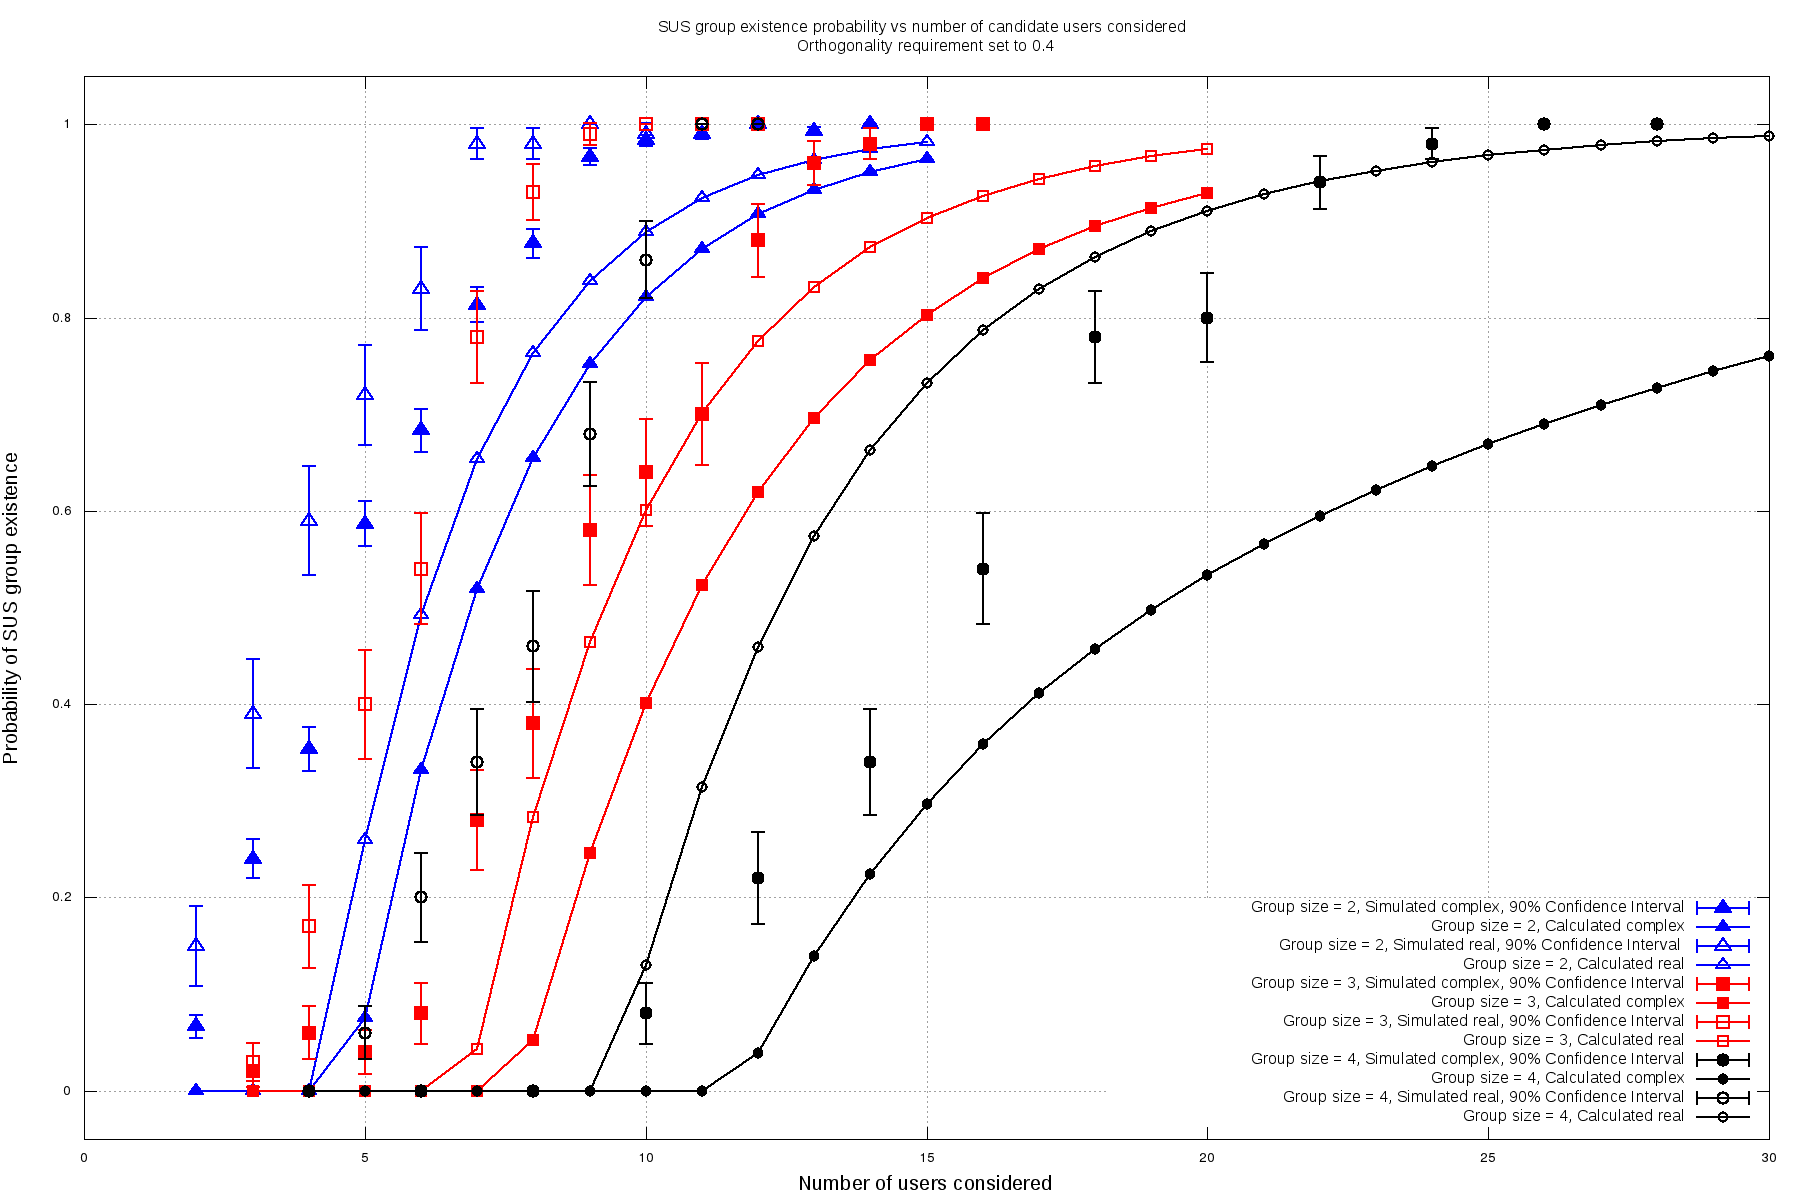
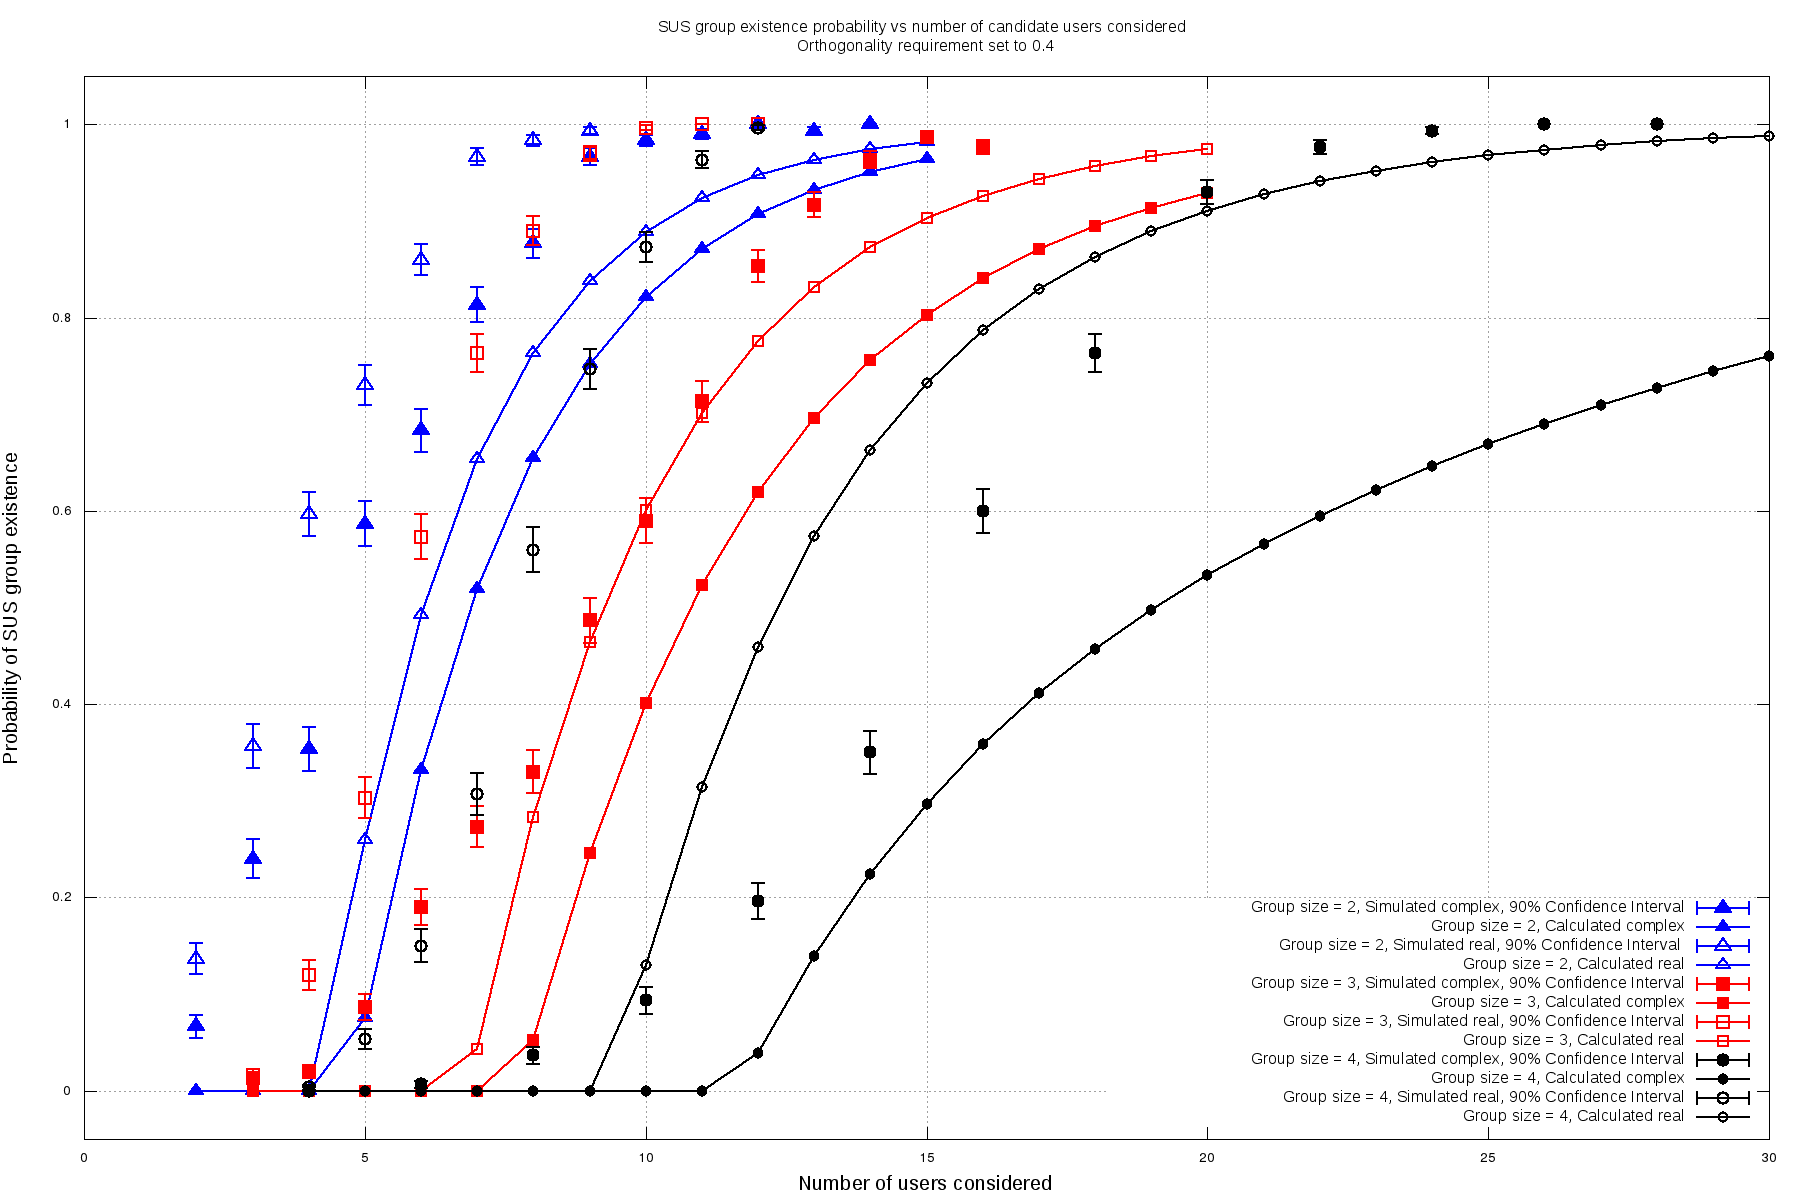
updated to plotting to incorporate new 300 sample monte carlo data sets. reverted changes to the sta locations to neglect the path loss again since it is assumed to be known. beta values are set to m-1 in delta_c.m. JC

diff --git a/swannack_reproduce/widely_linear/p_not_empty.m b/swannack_reproduce/widely_linear/p_not_empty.m
@@ -4,7 +4,7 @@ function p_not_empty_lbnd = p_not_empty(theta, rho_min, rho_max, group_size, num
     m = num_dim;
 
     p_s = p_shell(rho_min, rho_max, num_dim);
-    p_orth_lbnd = p_orth(theta, l, m);
+    p_orth_lbnd = p_orth(theta, l, m)
     rsum = 0;
     for j = l:n
         wid = 'MATLAB:nchoosek:LargeCoefficient';
@@ -18,7 +18,7 @@ function p_not_empty_lbnd = p_not_empty(theta, rho_min, rho_max, group_size, num
 
     E_arg1 = 2*p_orth_lbnd^(2)/l;
     if(E_func(p_orth_lbnd,l) == E_arg1)
-        c1 = exp(2*p_orth_lbnd(l-1)/l);
+        c1 = exp(2*(p_orth_lbnd^2)*(l-1)/l);
     else
         c1 = 1;
     end

diff --git a/swannack_reproduce/widely_linear/p_orth.m b/swannack_reproduce/widely_linear/p_orth.m
@@ -6,6 +6,6 @@ function p_orth_lbnd = p_orth(theta, group_size, num_dim)
 
     %validateattributes(group_size,classes,group_attr,funcName)
     l = group_size;
-    [delta_lbnd delta_ubnd] = delta_c(theta, num_dim);
+    [delta_lbnd delta_ubnd] = delta_c(theta, 2*num_dim);
     p_orth_lbnd = (1-(l-1)*delta_lbnd)^(l-1);
 end

diff --git a/swannack_reproduce/widely_linear/gen_theor_pvec/gen_theor_pvec.m b/swannack_reproduce/widely_linear/gen_theor_pvec/gen_theor_pvec.m
@@ -1,0 +1,14 @@
+addpath ../
+epsilon = .4;
+rho_min = 1;
+rho_max = 2;
+group_size = 4;
+num_dim = 8;
+theta = acos(epsilon/rho_max);
+numStas = 4:50;
+p = zeros(1,length(numStas));
+k = 1;
+for n = numStas
+    p(k) = max(0,p_not_empty(theta,rho_min, rho_max, group_size, num_dim, n));
+    k = k+1;
+end

diff --git a/swannack_reproduce/complex/delta_c.m b/swannack_reproduce/complex/delta_c.m
@@ -11,6 +11,7 @@ function [lBound uBound] = delta_c(theta, num_dim)
     psi = psi_m(num_dim-2);
     %Condition for lower bound:
     s = pi/2*psi;
+    %beta = 40;
     beta = num_dim-1;
     lBound = c_func(theta, s ,beta);
 
